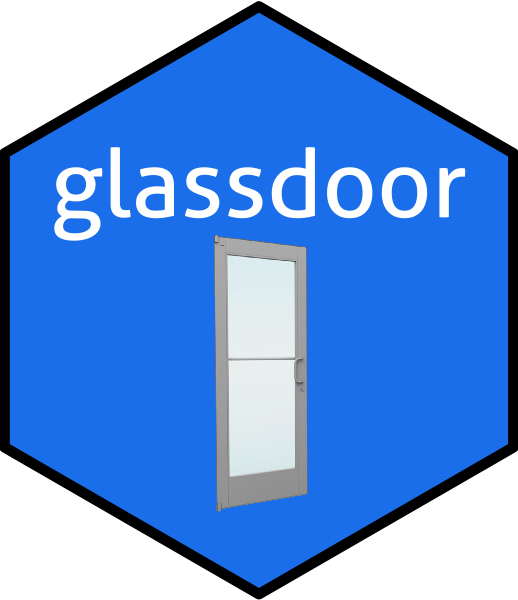
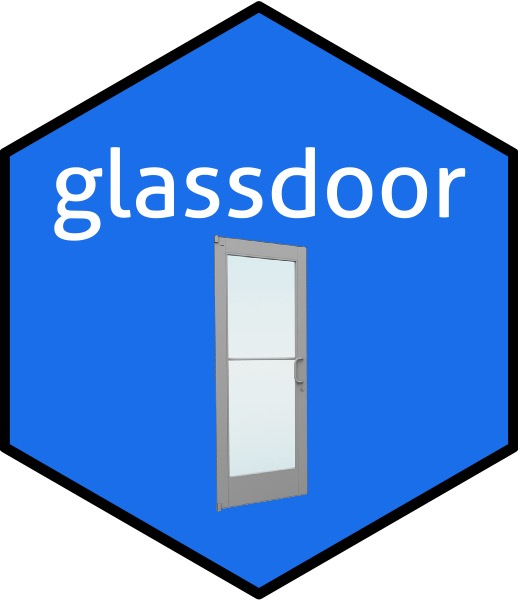
Added jpg.

diff --git a/README.md b/README.md
@@ -3,7 +3,7 @@
 glassdoor
 =========
 
-[![JHU Data Science](http://johnmuschelli.com/jhudsl/inst/jhudsl_logo.png)](http://jhudatascience.org/) <br> <!-- ![Sticker](sticker.png) --> <img src="sticker.png" width="100">
+[![JHU Data Science](http://johnmuschelli.com/jhudsl/inst/jhudsl_logo.png)](http://jhudatascience.org/) <br> <!-- ![Sticker](sticker.png) --> <img src="sticker.jpg" width="100">
 
 The goal of glassdoor is to provide a Glassdoor API for R
 
